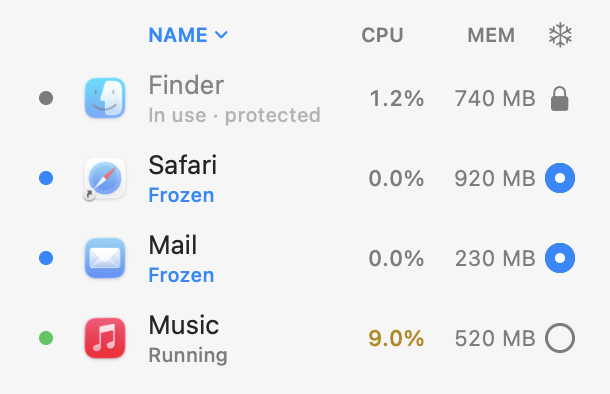
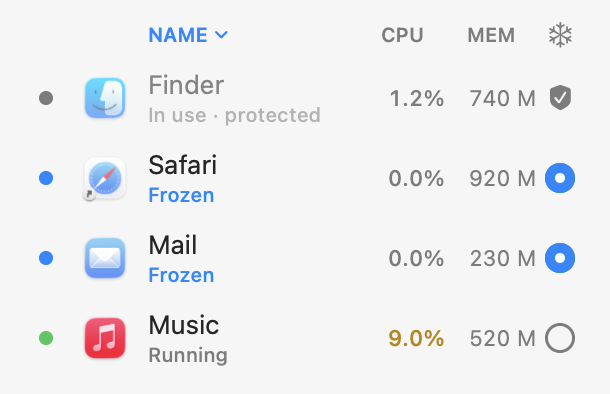
feat: User Lock feature block + table row; re-rendered static PNGs

diff --git a/appfreeze.html b/appfreeze.html
@@ -313,6 +313,10 @@
             <td class="no">—</td><td class="pro yes">✓</td><td class="pro yes">✓</td>
           </tr>
           <tr>
+            <td class="feat">Lock apps from freezing</td>
+            <td class="no">—</td><td class="pro yes">✓</td><td class="pro yes">✓</td>
+          </tr>
+          <tr>
             <td class="feat">Customizable global shortcut</td>
             <td class="no">—</td><td class="pro yes">✓</td><td class="pro yes">✓</td>
           </tr>
@@ -441,6 +445,15 @@
         <p>Record your own global freeze shortcut (or reset it to the default) and
            have AppFreeze ready in your menu bar the moment you log in — every
            setting tucked into one tidy panel.</p>
+      </div>
+    </div>
+
+    <div class="feature">
+      <div class="shot"><img src="img/user-lock.png" alt="App list with Mail marked as user-locked: a lock icon replaces the freeze toggle and it stays unfrozen while Safari and Notes are frozen"></div>
+      <div class="text">
+        <h3>Lock apps from freezing</h3>
+        <p>Right-click any app to lock it — it stays unfrozen no matter what mode
+           you switch to. A lock icon marks it at a glance; one click unlocks it again.</p>
       </div>
     </div>
 
